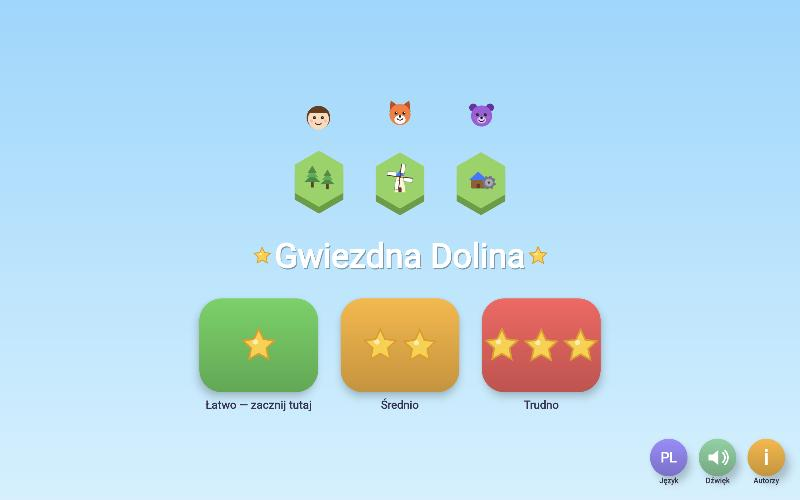
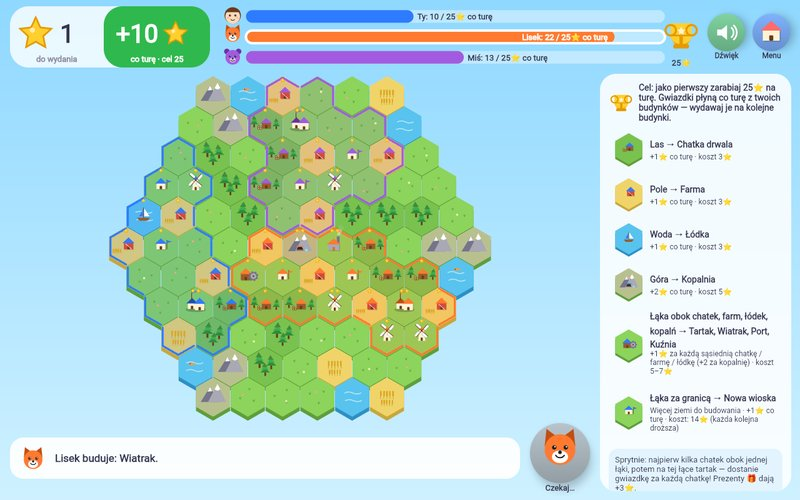
Use in-game screenshots for Polytopia Trainer and Star Valley
Claude-Session: https://claude.ai/code/session_017NT61JYhdKpiz1qk7tu5gD

diff --git a/index.html b/index.html
@@ -22,7 +22,7 @@
   <link rel="preconnect" href="https://fonts.googleapis.com">
   <link rel="preconnect" href="https://fonts.gstatic.com" crossorigin>
   <link href="https://fonts.googleapis.com/css2?family=Literata:ital,opsz,wght@0,7..72,400..600;1,7..72,400&family=JetBrains+Mono:wght@400;500&display=swap&subset=latin-ext" rel="stylesheet">
-  <link rel="stylesheet" href="/style.css?v=mwpzc95u">
+  <link rel="stylesheet" href="/style.css?v=mwqburpo">
   <script type="application/ld+json">{"@context":"https://schema.org","@graph":[{"@type":"Person","@id":"https://marcinmoskala.com/#person","name":"Marcin Moskała","url":"https://marcinmoskala.com/","image":"https://marcinmoskala.com/static/img/portrait.jpg","jobTitle":"Software architect, teacher and author","worksFor":[{"@type":"Organization","name":"Bank Pekao","url":"https://www.pekao.com.pl"}],"founder":{"@type":"Organization","name":"kt.academy","url":"https://kt.academy"},"sameAs":["https://kt.academy","https://github.com/MarcinMoskala","https://www.linkedin.com/in/marcin-moskala/","https://x.com/marcinmoskala"]},{"@type":"Book","name":"Effective Kotlin","url":"https://kt.academy/book/effectivekotlin","image":"https://marcinmoskala.com/static/img/books/ek.jpg","author":{"@id":"https://marcinmoskala.com/#person"}},{"@type":"Book","name":"Kotlin Coroutines: Deep Dive","url":"https://kt.academy/book/coroutines","image":"https://marcinmoskala.com/static/img/books/kc.jpg","author":{"@id":"https://marcinmoskala.com/#person"}},{"@type":"Book","name":"Kotlin Essentials","url":"https://kt.academy/book/kotlin_essentials","image":"https://marcinmoskala.com/static/img/books/ke.jpg","author":{"@id":"https://marcinmoskala.com/#person"}},{"@type":"Book","name":"Functional Kotlin","url":"https://kt.academy/book/functional_kotlin","image":"https://marcinmoskala.com/static/img/books/fk.jpg","author":{"@id":"https://marcinmoskala.com/#person"}},{"@type":"Book","name":"Advanced Kotlin","url":"https://kt.academy/book/advanced_kotlin","image":"https://marcinmoskala.com/static/img/books/ak.jpg","author":{"@id":"https://marcinmoskala.com/#person"}}]}</script>
 </head>
 <body>

diff --git a/talks/index.html b/talks/index.html
@@ -22,7 +22,7 @@
   <link rel="preconnect" href="https://fonts.googleapis.com">
   <link rel="preconnect" href="https://fonts.gstatic.com" crossorigin>
   <link href="https://fonts.googleapis.com/css2?family=Literata:ital,opsz,wght@0,7..72,400..600;1,7..72,400&family=JetBrains+Mono:wght@400;500&display=swap&subset=latin-ext" rel="stylesheet">
-  <link rel="stylesheet" href="/style.css?v=mwpzc95u">
+  <link rel="stylesheet" href="/style.css?v=mwqburpo">
   
 </head>
 <body>
@@ -689,6 +689,6 @@
       <a href="/conf/">For conference organizers</a>
     </footer>
   </div>
-  <script src="/talks.js?v=mwpzc95u"></script>
+  <script src="/talks.js?v=mwqburpo"></script>
 </body>
 </html>

diff --git a/404.html b/404.html
@@ -19,7 +19,7 @@
   <link rel="preconnect" href="https://fonts.googleapis.com">
   <link rel="preconnect" href="https://fonts.gstatic.com" crossorigin>
   <link href="https://fonts.googleapis.com/css2?family=Literata:ital,opsz,wght@0,7..72,400..600;1,7..72,400&family=JetBrains+Mono:wght@400;500&display=swap&subset=latin-ext" rel="stylesheet">
-  <link rel="stylesheet" href="/style.css?v=mwpzc95u">
+  <link rel="stylesheet" href="/style.css?v=mwqburpo">
   
 </head>
 <body>

diff --git a/conf/index.html b/conf/index.html
@@ -22,7 +22,7 @@
   <link rel="preconnect" href="https://fonts.googleapis.com">
   <link rel="preconnect" href="https://fonts.gstatic.com" crossorigin>
   <link href="https://fonts.googleapis.com/css2?family=Literata:ital,opsz,wght@0,7..72,400..600;1,7..72,400&family=JetBrains+Mono:wght@400;500&display=swap&subset=latin-ext" rel="stylesheet">
-  <link rel="stylesheet" href="/style.css?v=mwpzc95u">
+  <link rel="stylesheet" href="/style.css?v=mwqburpo">
   
 </head>
 <body>

diff --git a/projects/index.html b/projects/index.html
@@ -22,7 +22,7 @@
   <link rel="preconnect" href="https://fonts.googleapis.com">
   <link rel="preconnect" href="https://fonts.gstatic.com" crossorigin>
   <link href="https://fonts.googleapis.com/css2?family=Literata:ital,opsz,wght@0,7..72,400..600;1,7..72,400&family=JetBrains+Mono:wght@400;500&display=swap&subset=latin-ext" rel="stylesheet">
-  <link rel="stylesheet" href="/style.css?v=mwpzc95u">
+  <link rel="stylesheet" href="/style.css?v=mwqburpo">
   
 </head>
 <body>
